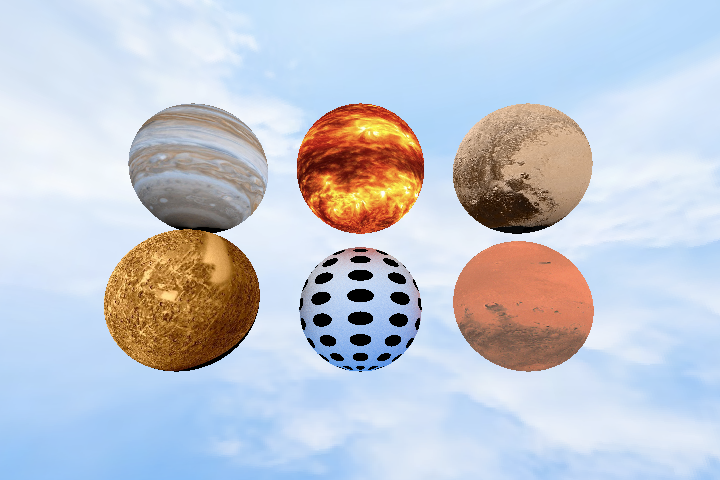
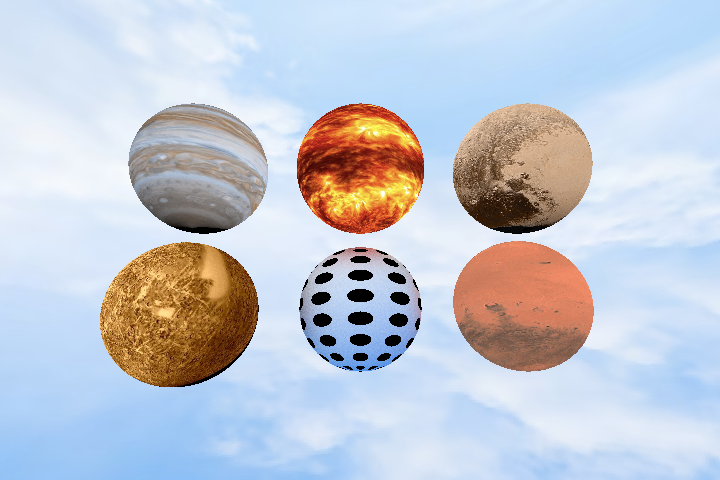
fertig

Changed region(s): [[0.1222, 0.4688, 0.3667, 0.8125]]

diff --git a/src/cgg/a09/Main.java b/src/cgg/a09/Main.java
@@ -25,7 +25,7 @@ public class Main {
         Background background = new Background(new BackgroundMaterial(new Texture("doc/Texturen/Himmel.png", Matrix.translation(0, 0, 0))));
 
         Sphere polkadot = new Sphere(Vector.point(0, 1, -1), 1, new DiffusingMaterial(new PolkaDots(Vector.black, Vector.white, 0.3, Matrix.scaling(10, 10, 10))));
-        Sphere merkur = new Sphere(Vector.point(-2.5, 1, -0.2), 1, new BackgroundMaterial(new Texture("doc/Texturen/Merkur.jpeg")));
+        Sphere merkur = new Sphere(Vector.point(-2.5, 0.8, -0.2), 1, new BackgroundMaterial(new Texture("doc/Texturen/Merkur.jpeg")));
         Sphere mars = new Sphere(Vector.point(2.5, 1, -0.7), 1, new BackgroundMaterial(new Texture("doc/Texturen/mars.png")));
         Sphere sun = new Sphere(Vector.point(0, 3.0, 0), 1, new BackgroundMaterial(new Texture("doc/Texturen/sonne.png")));
         Sphere pluto = new Sphere(Vector.point(2.5, 3.0, 0), 1, new BackgroundMaterial(new Texture("doc/Texturen/Pluti.jpeg")));
